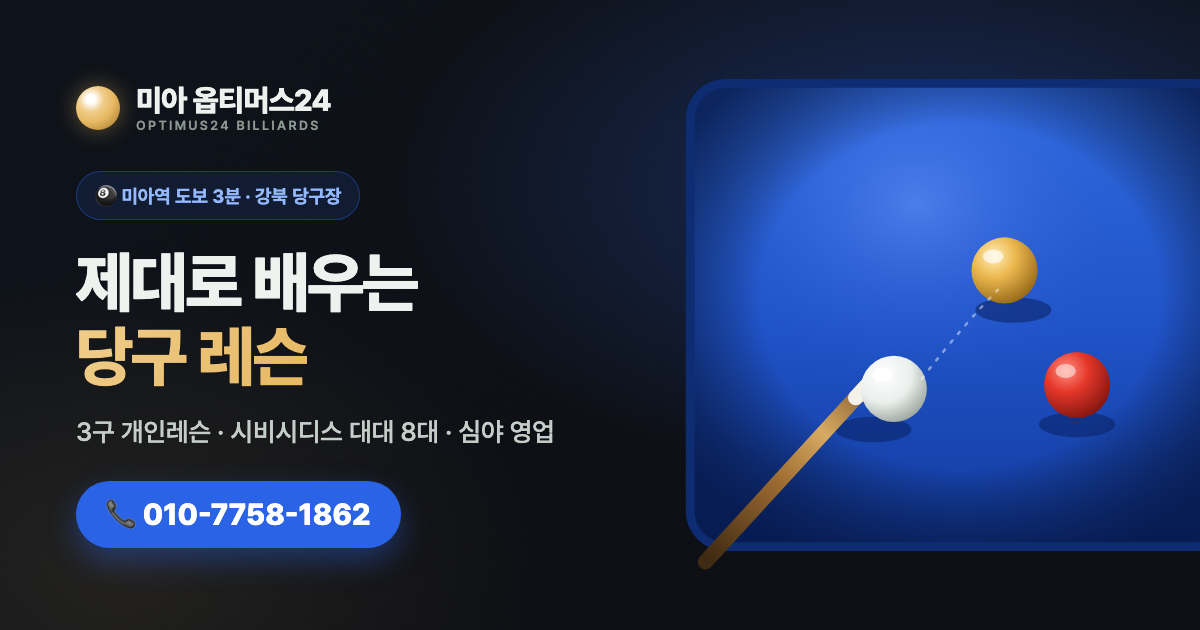
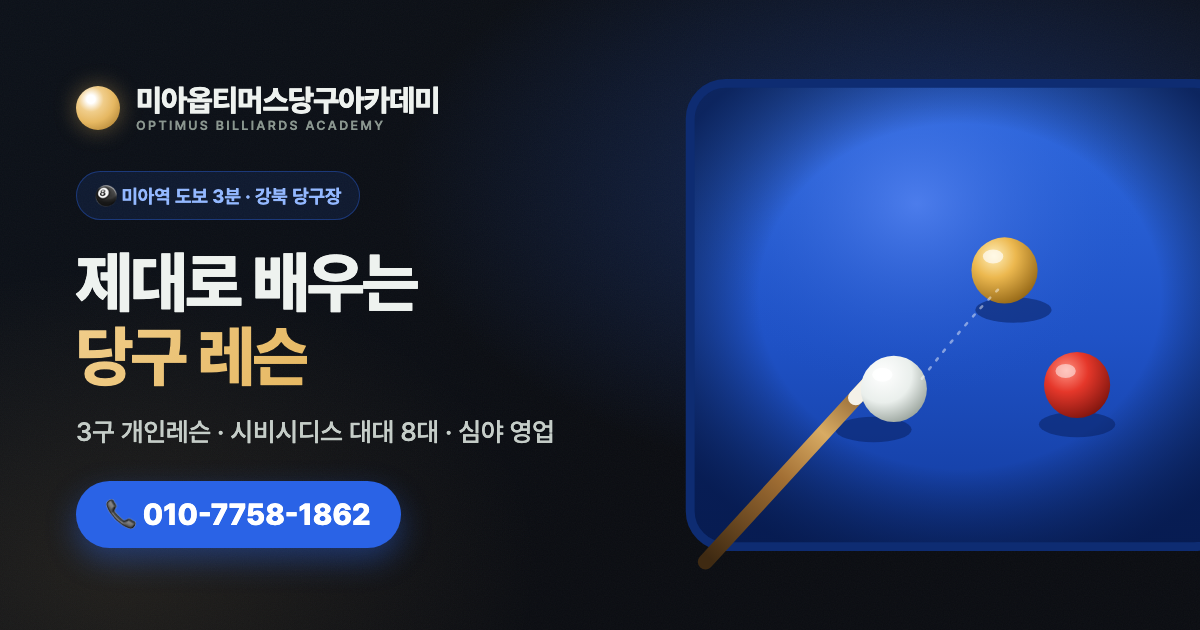
상호 변경 — 미아 옵티머스24 → 미아옵티머스당구아카데미 (전 페이지 타이틀·메타·스키마·헤더·푸터·저작권), 영문부제 OPTIMUS BILLIARDS ACADEMY, OG 이미지 새 이름으로 재생성

Changed region(s): [[0.1542, 0.1206, 0.37, 0.2111]]

diff --git a/index.html b/index.html
@@ -5,10 +5,10 @@
 <meta name="viewport" content="width=device-width, initial-scale=1.0">
 
 <!-- ===== SEO: 페이지마다 title/description 다르게 ===== -->
-<title>미아 옵티머스24 | 미아 당구 레슨 · 3구 개인레슨</title>
-<meta name="description" content="미아 당구 레슨 전문 미아 옵티머스24. 3구 개인레슨, 초보 입문반부터 고점자 원포인트까지. 1:1 맞춤 레슨. 레슨 문의 010-7758-1862.">
-<meta name="keywords" content="당구 레슨, 미아 당구 레슨, 당구 개인레슨, 3구 레슨, 당구 배우기, 당구 강습, 미아 옵티머스24">
-<meta name="author" content="미아 옵티머스24">
+<title>미아옵티머스당구아카데미 | 미아 당구 레슨 · 3구 개인레슨</title>
+<meta name="description" content="미아 당구 레슨 전문 미아옵티머스당구아카데미. 3구 개인레슨, 초보 입문반부터 고점자 원포인트까지. 1:1 맞춤 레슨. 레슨 문의 010-7758-1862.">
+<meta name="keywords" content="당구 레슨, 미아 당구 레슨, 당구 개인레슨, 3구 레슨, 당구 배우기, 당구 강습, 미아옵티머스당구아카데미">
+<meta name="author" content="미아옵티머스당구아카데미">
 <meta name="robots" content="index, follow">
 
 <!-- ===== 배포 도메인 확정되면 URL만 바꾸면 됨 ===== -->
@@ -16,11 +16,11 @@
 
 <!-- Open Graph (카카오톡/페북/네이버 공유 미리보기) -->
 <meta property="og:type" content="website">
-<meta property="og:title" content="미아 옵티머스24 | 미아 당구 레슨">
+<meta property="og:title" content="미아옵티머스당구아카데미 | 미아 당구 레슨">
 <meta property="og:description" content="3구 개인레슨. 1:1 맞춤 레슨. 레슨 문의.">
 <meta property="og:image" content="https://heyjyu.github.io/billiards-lesson/assets/og.png">
 <meta property="og:url" content="https://heyjyu.github.io/billiards-lesson/">
-<meta property="og:locale" content="ko_KR"> <meta property="og:site_name" content="미아 옵티머스24"> <meta property="og:image:width" content="1200"> <meta property="og:image:height" content="630"> <meta name="twitter:card" content="summary_large_image"> <meta name="twitter:image" content="https://heyjyu.github.io/billiards-lesson/assets/og.png">
+<meta property="og:locale" content="ko_KR"> <meta property="og:site_name" content="미아옵티머스당구아카데미"> <meta property="og:image:width" content="1200"> <meta property="og:image:height" content="630"> <meta name="twitter:card" content="summary_large_image"> <meta name="twitter:image" content="https://heyjyu.github.io/billiards-lesson/assets/og.png">
 
 <!-- ===== 검색엔진 소유확인 (등록 후 값 채우기) ===== -->
 <!-- <meta name="google-site-verification" content="여기에_구글_인증코드"> -->
@@ -36,7 +36,7 @@
 {
   "@context": "https://schema.org",
   "@type": "SportsActivityLocation",
-  "name": "미아 옵티머스24",
+  "name": "미아옵티머스당구아카데미",
   "description": "미아·강북 당구장. 시비시디스 대대 8대, 3구 당구 레슨. 미아역 도보 3분, 매일 새벽 5시까지.",
   "image": "https://heyjyu.github.io/billiards-lesson/assets/og.png",
   "url": "https://heyjyu.github.io/billiards-lesson/",
@@ -67,7 +67,7 @@
   <nav class="nav wrap" aria-label="주요 메뉴">
     <a class="brand" href="index.html">
       <span class="ball"></span>
-      <span>미아 옵티머스24<small>OPTIMUS24 BILLIARDS</small></span>
+      <span>미아옵티머스당구아카데미<small>OPTIMUS BILLIARDS ACADEMY</small></span>
     </a>
     <button class="nav-toggle" aria-label="메뉴 열기" aria-expanded="false">&#9776;</button>
     <ul class="nav-links">
@@ -258,7 +258,7 @@
          (첫 신청 1회는 FormSubmit이 보낸 확인메일의 링크를 눌러 활성화해야 함) -->
     <form class="form-card contact-form" action="https://formsubmit.co/[email redacted]" method="POST">
       <!-- 설정용 숨김 필드 -->
-      <input type="hidden" name="_subject" value="[미아 옵티머스24] 새 상담신청">
+      <input type="hidden" name="_subject" value="[미아옵티머스당구아카데미] 새 상담신청">
       <input type="hidden" name="_captcha" value="false">
       <input type="hidden" name="_template" value="table">
       <input type="hidden" name="_next" value="https://heyjyu.github.io/billiards-lesson/index.html?sent=1#contact">
@@ -302,7 +302,7 @@
 <footer class="site-footer">
   <div class="wrap footer-grid">
     <div>
-      <h4>미아 옵티머스24</h4>
+      <h4>미아옵티머스당구아카데미</h4>
       <p>미아·강북 당구장. 시비시디스 대대 8대에서 3구 레슨으로<br>당신의 당구 실력을 빠르게 끌어올립니다.</p>
       <p>서울 강북구 미아동 125-25 지하 1층</p>
     </div>
@@ -321,7 +321,7 @@
     </div>
   </div>
   <div class="wrap footer-bottom">
-    <span>© 2026 미아 옵티머스24. All rights reserved.</span>
+    <span>© 2026 미아옵티머스당구아카데미. All rights reserved.</span>
     <span>미아 당구장 · 미아 당구 레슨 · 3구 개인레슨</span>
   </div>
 </footer>

diff --git a/location.html b/location.html
@@ -3,16 +3,16 @@
 <head>
 <meta charset="UTF-8">
 <meta name="viewport" content="width=device-width, initial-scale=1.0">
-<title>오시는 길 · 위치 | 미아 당구 레슨 - 미아 옵티머스24</title>
-<meta name="description" content="미아 옵티머스24 오시는 길. 서울 강북구 미아동 125-25 지하 1층 (미아역 도보 3분). 운영시간 매일 11:00~05:00, 연중무휴. 전화 010-7758-1862.">
-<meta name="keywords" content="미아 당구장 위치, 미아역 당구장, 미아 당구 레슨 오시는길, 미아 옵티머스24 위치">
+<title>오시는 길 · 위치 | 미아 당구 레슨 - 미아옵티머스당구아카데미</title>
+<meta name="description" content="미아옵티머스당구아카데미 오시는 길. 서울 강북구 미아동 125-25 지하 1층 (미아역 도보 3분). 운영시간 매일 11:00~05:00, 연중무휴. 전화 010-7758-1862.">
+<meta name="keywords" content="미아 당구장 위치, 미아역 당구장, 미아 당구 레슨 오시는길, 미아옵티머스당구아카데미 위치">
 <meta name="robots" content="index, follow">
 <link rel="canonical" href="https://heyjyu.github.io/billiards-lesson/location.html">
 <meta property="og:type" content="website">
-<meta property="og:title" content="오시는 길 | 미아 옵티머스24">
+<meta property="og:title" content="오시는 길 | 미아옵티머스당구아카데미">
 <meta property="og:description" content="서울 강북구 미아동 125-25 지하 1층 (미아역 도보 3분).">
 <meta property="og:url" content="https://heyjyu.github.io/billiards-lesson/location.html">
-<meta property="og:locale" content="ko_KR"> <meta property="og:site_name" content="미아 옵티머스24"> <meta property="og:image" content="https://heyjyu.github.io/billiards-lesson/assets/og.png"> <meta property="og:image:width" content="1200"> <meta property="og:image:height" content="630"> <meta name="twitter:card" content="summary_large_image"> <meta name="twitter:image" content="https://heyjyu.github.io/billiards-lesson/assets/og.png">
+<meta property="og:locale" content="ko_KR"> <meta property="og:site_name" content="미아옵티머스당구아카데미"> <meta property="og:image" content="https://heyjyu.github.io/billiards-lesson/assets/og.png"> <meta property="og:image:width" content="1200"> <meta property="og:image:height" content="630"> <meta name="twitter:card" content="summary_large_image"> <meta name="twitter:image" content="https://heyjyu.github.io/billiards-lesson/assets/og.png">
 <link rel="icon" href="assets/favicon.svg" type="image/svg+xml">
 <link rel="stylesheet" href="https://cdn.jsdelivr.net/gh/orioncactus/pretendard@v1.3.9/dist/web/static/pretendard.min.css">
 <link rel="stylesheet" href="css/style.css?v=11">
@@ -21,7 +21,7 @@
 {
   "@context": "https://schema.org",
   "@type": "SportsActivityLocation",
-  "name": "미아 옵티머스24",
+  "name": "미아옵티머스당구아카데미",
   "telephone": "+82-10-7758-1862",
   "url": "https://heyjyu.github.io/billiards-lesson/location.html",
   "address": {
@@ -47,7 +47,7 @@
   <nav class="nav wrap" aria-label="주요 메뉴">
     <a class="brand" href="index.html">
       <span class="ball"></span>
-      <span>미아 옵티머스24<small>OPTIMUS24 BILLIARDS</small></span>
+      <span>미아옵티머스당구아카데미<small>OPTIMUS BILLIARDS ACADEMY</small></span>
     </a>
     <button class="nav-toggle" aria-label="메뉴 열기" aria-expanded="false">&#9776;</button>
     <ul class="nav-links">
@@ -97,7 +97,7 @@
         <iframe class="map-embed"
           src="https://www.google.com/maps?q=서울특별시+강북구+미아동+125-25&output=embed"
           loading="lazy" referrerpolicy="no-referrer-when-downgrade"
-          title="미아 옵티머스24 위치 지도"></iframe>
+          title="미아옵티머스당구아카데미 위치 지도"></iframe>
         <p style="color:var(--muted); font-size:13.5px; margin-top:10px;">※ 지번 주소 기준 지도입니다. 정확한 입구 위치는 전화로 안내해 드립니다.</p>
       </div>
     </div>
@@ -115,7 +115,7 @@
 <footer class="site-footer">
   <div class="wrap footer-grid">
     <div>
-      <h4>미아 옵티머스24</h4>
+      <h4>미아옵티머스당구아카데미</h4>
       <p>미아·강북 당구장. 시비시디스 대대 8대에서 3구 레슨으로<br>당신의 당구 실력을 빠르게 끌어올립니다.</p>
       <p>서울 강북구 미아동 125-25 지하 1층</p>
     </div>
@@ -134,7 +134,7 @@
     </div>
   </div>
   <div class="wrap footer-bottom">
-    <span>© 2026 미아 옵티머스24. All rights reserved.</span>
+    <span>© 2026 미아옵티머스당구아카데미. All rights reserved.</span>
     <span>미아 당구장 · 미아 당구 레슨 · 3구 개인레슨</span>
   </div>
 </footer>

diff --git a/facility.html b/facility.html
@@ -3,16 +3,16 @@
 <head>
 <meta charset="UTF-8">
 <meta name="viewport" content="width=device-width, initial-scale=1.0">
-<title>시설 안내 | 미아 당구장 시설 · 시비시디스 대대 8대 - 미아 옵티머스24</title>
-<meta name="description" content="미아 옵티머스24 시설 안내. 시비시디스 대대 8대와 쾌적한 환경, 심야 영업, 편의시설을 소개합니다. 미아역 도보 3분, 깨끗한 미아 당구장.">
+<title>시설 안내 | 미아 당구장 시설 · 시비시디스 대대 8대 - 미아옵티머스당구아카데미</title>
+<meta name="description" content="미아옵티머스당구아카데미 시설 안내. 시비시디스 대대 8대와 쾌적한 환경, 심야 영업, 편의시설을 소개합니다. 미아역 도보 3분, 깨끗한 미아 당구장.">
 <meta name="keywords" content="미아 당구장, 강북 당구장, 당구장 시설, 시비시디스 대대, 미아역 당구장, 깨끗한 당구장">
 <meta name="robots" content="index, follow">
 <link rel="canonical" href="https://heyjyu.github.io/billiards-lesson/facility.html">
 <meta property="og:type" content="website">
-<meta property="og:title" content="시설 안내 | 미아 옵티머스24">
+<meta property="og:title" content="시설 안내 | 미아옵티머스당구아카데미">
 <meta property="og:description" content="시비시디스 대대 8대, 쾌적한 환경, 심야 영업.">
 <meta property="og:url" content="https://heyjyu.github.io/billiards-lesson/facility.html">
-<meta property="og:locale" content="ko_KR"> <meta property="og:site_name" content="미아 옵티머스24"> <meta property="og:image" content="https://heyjyu.github.io/billiards-lesson/assets/og.png"> <meta property="og:image:width" content="1200"> <meta property="og:image:height" content="630"> <meta name="twitter:card" content="summary_large_image"> <meta name="twitter:image" content="https://heyjyu.github.io/billiards-lesson/assets/og.png">
+<meta property="og:locale" content="ko_KR"> <meta property="og:site_name" content="미아옵티머스당구아카데미"> <meta property="og:image" content="https://heyjyu.github.io/billiards-lesson/assets/og.png"> <meta property="og:image:width" content="1200"> <meta property="og:image:height" content="630"> <meta name="twitter:card" content="summary_large_image"> <meta name="twitter:image" content="https://heyjyu.github.io/billiards-lesson/assets/og.png">
 <link rel="icon" href="assets/favicon.svg" type="image/svg+xml">
 <link rel="stylesheet" href="https://cdn.jsdelivr.net/gh/orioncactus/pretendard@v1.3.9/dist/web/static/pretendard.min.css">
 <link rel="stylesheet" href="css/style.css?v=11">
@@ -23,7 +23,7 @@
   <nav class="nav wrap" aria-label="주요 메뉴">
     <a class="brand" href="index.html">
       <span class="ball"></span>
-      <span>미아 옵티머스24<small>OPTIMUS24 BILLIARDS</small></span>
+      <span>미아옵티머스당구아카데미<small>OPTIMUS BILLIARDS ACADEMY</small></span>
     </a>
     <button class="nav-toggle" aria-label="메뉴 열기" aria-expanded="false">&#9776;</button>
     <ul class="nav-links">
@@ -91,7 +91,7 @@
 <footer class="site-footer">
   <div class="wrap footer-grid">
     <div>
-      <h4>미아 옵티머스24</h4>
+      <h4>미아옵티머스당구아카데미</h4>
       <p>미아·강북 당구장. 시비시디스 대대 8대에서 3구 레슨으로<br>당신의 당구 실력을 빠르게 끌어올립니다.</p>
       <p>서울 강북구 미아동 125-25 지하 1층</p>
     </div>
@@ -110,7 +110,7 @@
     </div>
   </div>
   <div class="wrap footer-bottom">
-    <span>© 2026 미아 옵티머스24. All rights reserved.</span>
+    <span>© 2026 미아옵티머스당구아카데미. All rights reserved.</span>
     <span>미아 당구장 · 미아 당구 레슨 · 3구 개인레슨</span>
   </div>
 </footer>

diff --git a/pricing.html b/pricing.html
@@ -3,16 +3,16 @@
 <head>
 <meta charset="UTF-8">
 <meta name="viewport" content="width=device-width, initial-scale=1.0">
-<title>이용 요금 | 당구 레슨 요금 · 당구장 대여 요금 - 미아 옵티머스24</title>
-<meta name="description" content="미아 옵티머스24 당구 레슨 요금 안내. 초보 입문·3구(쓰리쿠션)·원포인트(무료) 1:1 개인 레슨. 자세한 요금은 전화 문의. 미아역 도보 3분.">
+<title>이용 요금 | 당구 레슨 요금 · 당구장 대여 요금 - 미아옵티머스당구아카데미</title>
+<meta name="description" content="미아옵티머스당구아카데미 당구 레슨 요금 안내. 초보 입문·3구(쓰리쿠션)·원포인트(무료) 1:1 개인 레슨. 자세한 요금은 전화 문의. 미아역 도보 3분.">
 <meta name="keywords" content="당구 레슨 요금, 당구 강습 비용, 당구장 요금, 당구 개인레슨 가격, 미아 당구장">
 <meta name="robots" content="index, follow">
 <link rel="canonical" href="https://heyjyu.github.io/billiards-lesson/pricing.html">
 <meta property="og:type" content="website">
-<meta property="og:title" content="이용 요금 | 미아 옵티머스24">
+<meta property="og:title" content="이용 요금 | 미아옵티머스당구아카데미">
 <meta property="og:description" content="당구 레슨 요금과 당구장 이용료 안내.">
 <meta property="og:url" content="https://heyjyu.github.io/billiards-lesson/pricing.html">
-<meta property="og:locale" content="ko_KR"> <meta property="og:site_name" content="미아 옵티머스24"> <meta property="og:image" content="https://heyjyu.github.io/billiards-lesson/assets/og.png"> <meta property="og:image:width" content="1200"> <meta property="og:image:height" content="630"> <meta name="twitter:card" content="summary_large_image"> <meta name="twitter:image" content="https://heyjyu.github.io/billiards-lesson/assets/og.png">
+<meta property="og:locale" content="ko_KR"> <meta property="og:site_name" content="미아옵티머스당구아카데미"> <meta property="og:image" content="https://heyjyu.github.io/billiards-lesson/assets/og.png"> <meta property="og:image:width" content="1200"> <meta property="og:image:height" content="630"> <meta name="twitter:card" content="summary_large_image"> <meta name="twitter:image" content="https://heyjyu.github.io/billiards-lesson/assets/og.png">
 <link rel="icon" href="assets/favicon.svg" type="image/svg+xml">
 <link rel="stylesheet" href="https://cdn.jsdelivr.net/gh/orioncactus/pretendard@v1.3.9/dist/web/static/pretendard.min.css">
 <link rel="stylesheet" href="css/style.css?v=11">
@@ -23,7 +23,7 @@
   <nav class="nav wrap" aria-label="주요 메뉴">
     <a class="brand" href="index.html">
       <span class="ball"></span>
-      <span>미아 옵티머스24<small>OPTIMUS24 BILLIARDS</small></span>
+      <span>미아옵티머스당구아카데미<small>OPTIMUS BILLIARDS ACADEMY</small></span>
     </a>
     <button class="nav-toggle" aria-label="메뉴 열기" aria-expanded="false">&#9776;</button>
     <ul class="nav-links">
@@ -92,7 +92,7 @@
 <footer class="site-footer">
   <div class="wrap footer-grid">
     <div>
-      <h4>미아 옵티머스24</h4>
+      <h4>미아옵티머스당구아카데미</h4>
       <p>미아·강북 당구장. 시비시디스 대대 8대에서 3구 레슨으로<br>당신의 당구 실력을 빠르게 끌어올립니다.</p>
       <p>서울 강북구 미아동 125-25 지하 1층</p>
     </div>
@@ -111,7 +111,7 @@
     </div>
   </div>
   <div class="wrap footer-bottom">
-    <span>© 2026 미아 옵티머스24. All rights reserved.</span>
+    <span>© 2026 미아옵티머스당구아카데미. All rights reserved.</span>
     <span>미아 당구장 · 미아 당구 레슨 · 3구 개인레슨</span>
   </div>
 </footer>

diff --git a/lesson.html b/lesson.html
@@ -3,16 +3,16 @@
 <head>
 <meta charset="UTF-8">
 <meta name="viewport" content="width=device-width, initial-scale=1.0">
-<title>당구 레슨 안내 | 3구 개인레슨 커리큘럼 - 미아 옵티머스24</title>
+<title>당구 레슨 안내 | 3구 개인레슨 커리큘럼 - 미아옵티머스당구아카데미</title>
 <meta name="description" content="미아 당구 레슨 커리큘럼 안내. 초보 입문반, 3구(쓰리쿠션), 고점자 원포인트까지 수준별 1:1 개인레슨. 단계별 지도 과정을 소개합니다.">
 <meta name="keywords" content="당구 레슨, 당구 개인레슨, 3구 레슨, 쓰리쿠션 레슨, 당구 초보 강습, 당구 배우기">
 <meta name="robots" content="index, follow">
 <link rel="canonical" href="https://heyjyu.github.io/billiards-lesson/lesson.html">
 <meta property="og:type" content="website">
-<meta property="og:title" content="당구 레슨 안내 | 미아 옵티머스24">
+<meta property="og:title" content="당구 레슨 안내 | 미아옵티머스당구아카데미">
 <meta property="og:description" content="초보 입문부터 고점 원포인트까지, 수준별 1:1 당구 개인레슨 커리큘럼.">
 <meta property="og:url" content="https://heyjyu.github.io/billiards-lesson/lesson.html">
-<meta property="og:locale" content="ko_KR"> <meta property="og:site_name" content="미아 옵티머스24"> <meta property="og:image" content="https://heyjyu.github.io/billiards-lesson/assets/og.png"> <meta property="og:image:width" content="1200"> <meta property="og:image:height" content="630"> <meta name="twitter:card" content="summary_large_image"> <meta name="twitter:image" content="https://heyjyu.github.io/billiards-lesson/assets/og.png">
+<meta property="og:locale" content="ko_KR"> <meta property="og:site_name" content="미아옵티머스당구아카데미"> <meta property="og:image" content="https://heyjyu.github.io/billiards-lesson/assets/og.png"> <meta property="og:image:width" content="1200"> <meta property="og:image:height" content="630"> <meta name="twitter:card" content="summary_large_image"> <meta name="twitter:image" content="https://heyjyu.github.io/billiards-lesson/assets/og.png">
 <link rel="icon" href="assets/favicon.svg" type="image/svg+xml">
 <link rel="stylesheet" href="https://cdn.jsdelivr.net/gh/orioncactus/pretendard@v1.3.9/dist/web/static/pretendard.min.css">
 <link rel="stylesheet" href="css/style.css?v=11">
@@ -23,7 +23,7 @@
   <nav class="nav wrap" aria-label="주요 메뉴">
     <a class="brand" href="index.html">
       <span class="ball"></span>
-      <span>미아 옵티머스24<small>OPTIMUS24 BILLIARDS</small></span>
+      <span>미아옵티머스당구아카데미<small>OPTIMUS BILLIARDS ACADEMY</small></span>
     </a>
     <button class="nav-toggle" aria-label="메뉴 열기" aria-expanded="false">&#9776;</button>
     <ul class="nav-links">
@@ -144,7 +144,7 @@
 <footer class="site-footer">
   <div class="wrap footer-grid">
     <div>
-      <h4>미아 옵티머스24</h4>
+      <h4>미아옵티머스당구아카데미</h4>
       <p>미아·강북 당구장. 시비시디스 대대 8대에서 3구 레슨으로<br>당신의 당구 실력을 빠르게 끌어올립니다.</p>
       <p>서울 강북구 미아동 125-25 지하 1층</p>
     </div>
@@ -163,7 +163,7 @@
     </div>
   </div>
   <div class="wrap footer-bottom">
-    <span>© 2026 미아 옵티머스24. All rights reserved.</span>
+    <span>© 2026 미아옵티머스당구아카데미. All rights reserved.</span>
     <span>미아 당구장 · 미아 당구 레슨 · 3구 개인레슨</span>
   </div>
 </footer>

diff --git a/og.html b/og.html
@@ -33,7 +33,7 @@
 <body>
   <div class="grain"></div>
   <div class="left">
-    <div class="brand"><span class="ball"></span><span><b>미아 옵티머스24</b><small>OPTIMUS24 BILLIARDS</small></span></div>
+    <div class="brand"><span class="ball"></span><span><b>미아옵티머스당구아카데미</b><small>OPTIMUS BILLIARDS ACADEMY</small></span></div>
     <span class="eyebrow">🎱 미아역 도보 3분 · 강북 당구장</span>
     <h1>제대로 배우는<br><span class="g">당구 레슨</span></h1>
     <div class="sub">3구 개인레슨 · 시비시디스 대대 8대 · 심야 영업</div>

diff --git a/README.md b/README.md
@@ -1,8 +1,8 @@
-# 미아 옵티머스24 웹사이트
+# 미아옵티머스당구아카데미 웹사이트
 
 미아·강북 당구장 + 당구 레슨 소개 사이트. 정적 HTML/CSS/JS — 빌드 없이 그대로 GitHub Pages에 올라감.
 
-실제 정보 반영됨: 미아 옵티머스24 / 010-7758-1862 / 서울 강북구 미아동 125-25 지하 1층 / 매일 11:00~익일 05:00 / 시비시디스 대대 8대 / 대대 10분 2,200원 / 레슨 문의 / 미아역(4호선) 도보 3분·주차 가능.
+실제 정보 반영됨: 미아옵티머스당구아카데미 / 010-7758-1862 / 서울 강북구 미아동 125-25 지하 1층 / 매일 11:00~익일 05:00 / 시비시디스 대대 8대 / 대대 10분 2,200원 / 레슨 문의 / 미아역(4호선) 도보 3분·주차 가능.
 
 ## 파일 구조
 ```